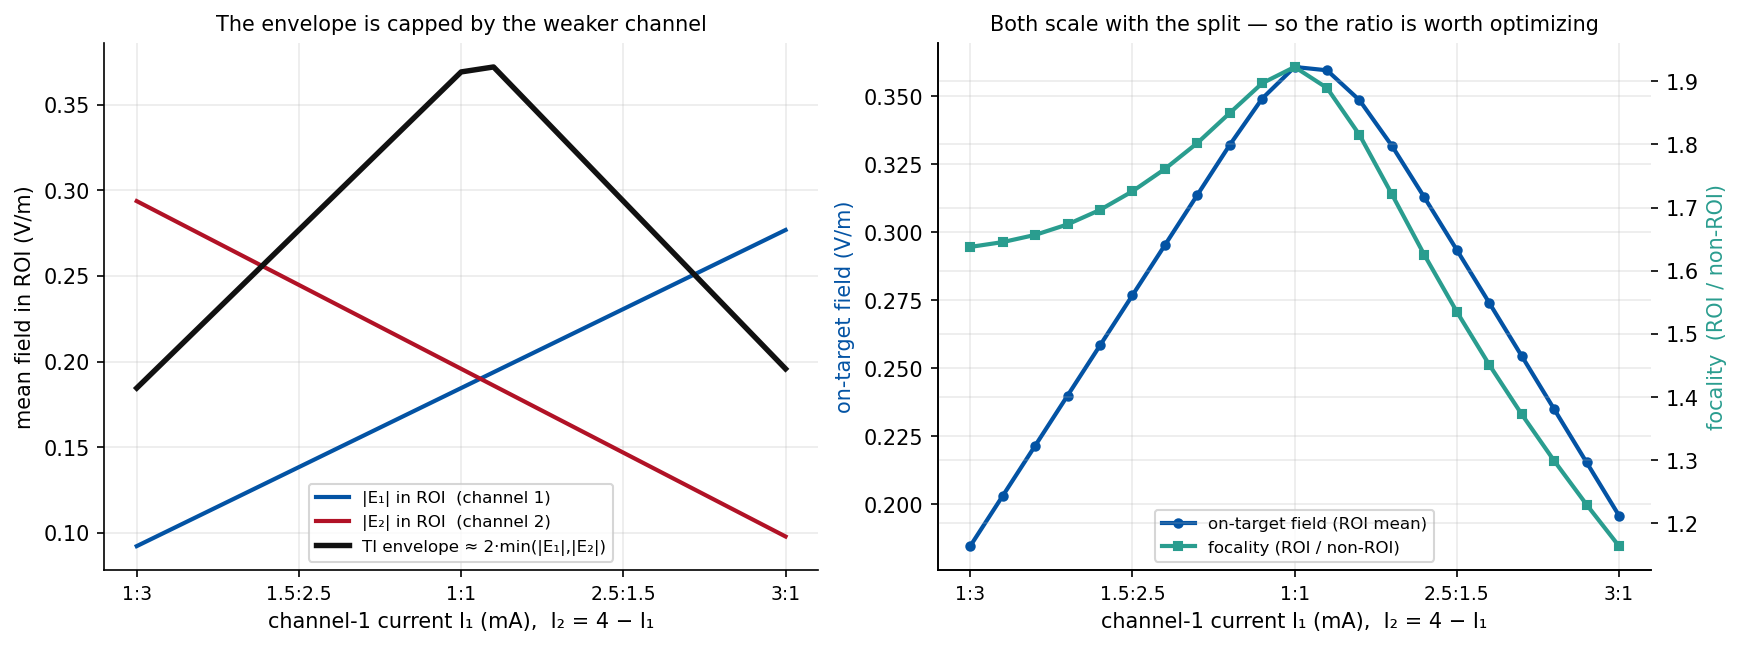
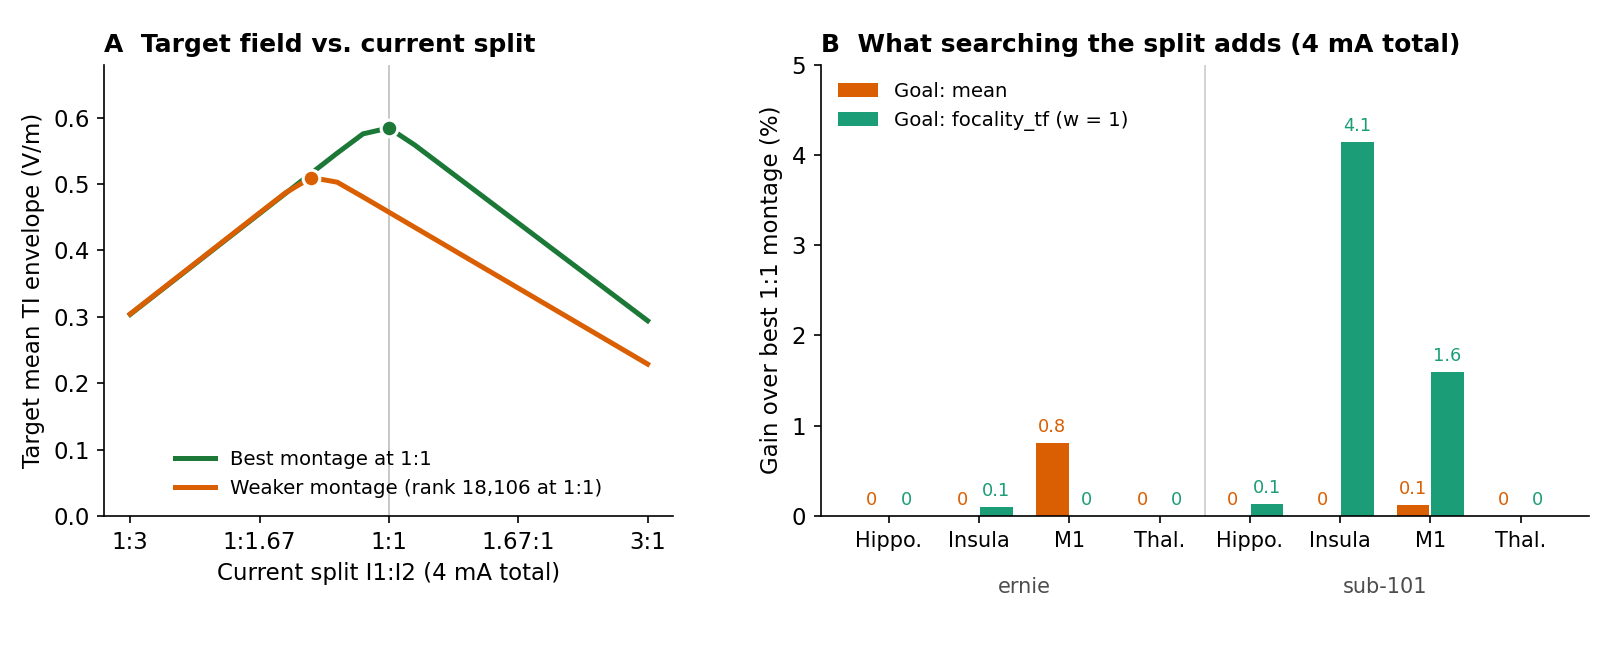
docs(flex-search): the current-ratio search is a small gain over a good 1:1 montage, with a new two-panel figure

diff --git a/docs/wiki/flex-search.md b/docs/wiki/flex-search.md
@@ -120,13 +120,21 @@ By default both channels carry the same current. With **Current ratio ▸ Optimi
 
 The split is searched **jointly with placement**: every candidate is scored at its own best split, which costs a rescale of already-solved fields, not a new FEM solve. It works with every goal. The winning split is used in the final simulation and recorded as `current_split` in `flex_meta.json`.
 
-A better score is not a stronger field. On sub-101 L-hippocampus at a fixed 4 mA total and fixed positions, 1:3 gave 0.185 V/m on target (focality ratio 1.64), 2:2 gave 0.361 V/m (1.92) and 3:1 gave 0.196 V/m (1.16): extreme splits attenuate the whole field rather than sharpening it. The envelope is capped by the weaker channel, so the split both scales the envelope and steers where the channels balance; published TI optima are rarely exactly 1:1 (Lee et al. 2020; Inoue et al. 2025).
+**What it buys: usually little.** In an exhaustive leadfield search of every EEG 10-10 montage at every split (2 heads, 4 targets, 4 mA total), the best 1:1 montage was already optimal or within 0.8 % for **Mean TImax**, and within 4 % for **Threshold-free focality** at **Intensity preference** 1. Winning splits were always near 1:1 (1.9:2.1 to 2.2:1.8). With each channel capped at a fixed current, 1:1 at the cap always won.
+
+**Why.** The envelope is capped by the weaker channel, so the best split is the one that balances the two channels at the target. Placement already does that: the best montages are balanced at 1:1, so a split only rescues montages that start out unbalanced, and those rank lower to begin with.
+
+**Caution.** With **Threshold-free focality** at **Intensity preference** 0, the score ignores overall strength, so an extreme split can raise the score while the target field falls (by up to 70 % in the study). Use **Intensity preference** 1 with the ratio search, and check the target field of the result.
+
+**Cost.** It adds no FEM solves. Run time rises under 1 % with **Mean TImax** and about 20 % with **Threshold-free focality**, where every split is scored against the non-ROI. A matched-seed benchmark (ernie, left insula, 4-5 seeds) showed no worse placements, and the search is unchanged when the option is off.
+
+**When to use it:** when placement is constrained (few or fixed electrodes), or to confirm 1:1. Otherwise leave it off (the default).
 
 <div class="image-container">
-  <img src="{{ site.baseurl }}/assets/imgs/flex-search/flex-search_current-ratio.png" alt="Current ratio effect on the TI envelope" style="width: 80%; max-width: 700px;">
+  <img src="{{ site.baseurl }}/assets/imgs/flex-search/flex-search_current-ratio.png" alt="Current split versus placement" style="width: 100%; max-width: 900px;">
 </div>
 
-**How the split scales and steers the TI envelope.** This montage was optimized at 1:1, so tuning the ratio afterwards gains only about 0.8 %; the benefit comes from searching it jointly with placement.
+**Current split versus placement.** (A) The best 1:1 montage peaks at 1:1, while a weaker montage peaks off 1:1. (B) The gain of searching the split together with placement, over the best 1:1 montage, at 4 mA total.
 
 ## Solver
 
